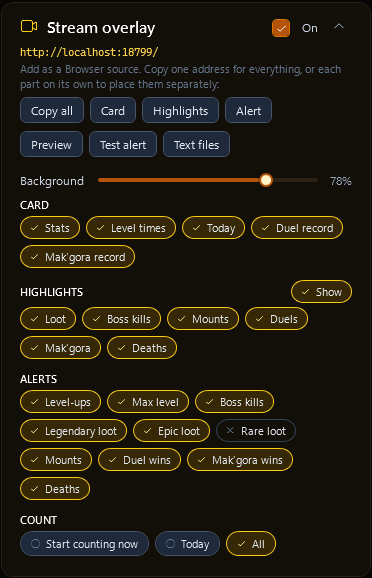
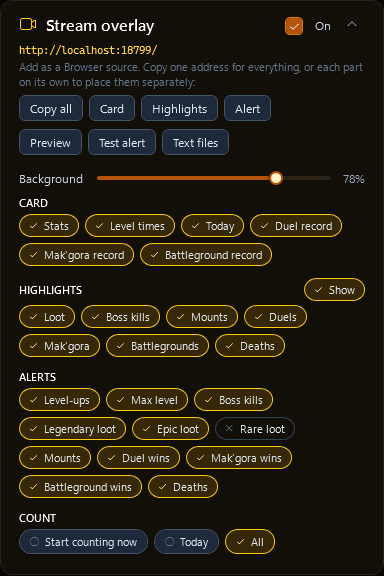
docs: fresh readme pictures and the 0.22.0 features
New pictures of the character list (sorting, role icons, ruleset chips),
the Items page, the In game page with guild/group announcements, the
stream panel and overlay (battleground record, wins and losses). The
text covers announcements, battlegrounds, sorting, the logo as the post
sender, and asks for testers. Version 0.22.0.

diff --git a/companion/WoWCharacterTracker/Models/TestCharacters.cs b/companion/WoWCharacterTracker/Models/TestCharacters.cs
@@ -15,13 +15,13 @@ static class TestCharacters
         long Ago(double hours) => now - (long)(hours * 3600);
 
         var zeb = new Snapshot($"{GuidPrefix}Zeb", "Zeb", "Stormreach", 40, "Warrior", "WARRIOR", "Night Elf", "NightElf", "male",
-            "", "", 38.4, 3 * 86400 + 5 * 3600, "Scarlet Monastery", "Mining 210, Blacksmithing 205", "Arms 21 / Fury 10 / Protection 0",
+            "Arms", "", 38.4, 3 * 86400 + 5 * 3600, "Scarlet Monastery", "Mining 210, Blacksmithing 205", "Arms 21 / Fury 10 / Protection 0",
             Ago(0.2), false, "Normal", 87_45_12, Guild: "Bloodhounds", Surname: "TESTCHAR", TalentPicks: "12282~3~3~1,16462~5~5~1,12292~1~1~1,12294~1~1~1,12320~5~5~2", Stats: "Strength~152,Agility~89,Stamina~141,Intellect~22,Spirit~48,Armor~2410,Attack Power~398,Crit~9.2%", Xp: 31200, XpMax: 90700, MaxLevel: 60, Region: "eu", ZoneType: "dungeon");
         var fagel = new Snapshot($"{GuidPrefix}Fagelmannen", "Fågelmannen", "Stormreach", 21, "Druid", "DRUID", "Tauren", "Tauren", "male",
-            "", "", 18.1, 19 * 3600 + 40 * 60, "The Barrens", "Herbalism 95, Alchemy 80", "Balance 0 / Feral Combat 12 / Restoration 0",
+            "Feral Combat", "", 18.1, 19 * 3600 + 40 * 60, "The Barrens", "Herbalism 95, Alchemy 80", "Balance 0 / Feral Combat 12 / Restoration 0",
             Ago(5), false, "Normal", 4_12_80, Guild: "Bloodhounds", Surname: "TESTCHAR", Xp: 6100, XpMax: 25200, MaxLevel: 60, Region: "eu", ZoneType: "zone");
         var goggo = new Snapshot($"{GuidPrefix}Goggo", "Goggo", "Ashfall", 60, "Hunter", "HUNTER", "Dwarf", "Dwarf", "male",
-            "", "", 61.7, 9 * 86400 + 14 * 3600, "Blackrock Spire", "Leatherworking 300, Skinning 300", "Beast Mastery 31 / Marksmanship 20 / Survival 0",
+            "Beast Mastery", "", 61.7, 9 * 86400 + 14 * 3600, "Blackrock Spire", "Leatherworking 300, Skinning 300", "Beast Mastery 31 / Marksmanship 20 / Survival 0",
             Ago(26), true, "Hardcore", 512_30_10, Guild: "", Surname: "TESTCHAR", MaxLevel: 60, Region: "us", ZoneType: "dungeon");
 
         var events = new List<Entry>();

diff --git a/companion/WoWCharacterTracker/Services/HighlightText.cs b/companion/WoWCharacterTracker/Services/HighlightText.cs
@@ -14,7 +14,7 @@ static class HighlightText
         "loot" => ("Looted ", e.Item),
         "mount" => (e.Bought ? "Bought " : "Got ", e.Mount),
         "duel" when e.Lost => (e.Fled ? "Ran from a duel with " : "Lost a duel to ", e.Opponent),
-        "duel" => (e.Fled ? "Won a duel, fled by " : "Won a duel against ", e.Opponent),
+        "duel" => ("Won a duel against ", e.Opponent),
         "makgora" when e.Lost => ("Lost a Mak'gora to ", e.Opponent),
         "makgora" => ("Won a Mak'gora against ", e.Opponent),
         "bg" => (e.Lost ? "Lost " : "Won ", e.Instance.Length > 0 ? e.Instance : "a battleground"),

diff --git a/README.md b/README.md
@@ -4,14 +4,17 @@
 
 Made for WoW Forever (Classic+), and works for Retail too. An addon in the game plus a small Windows app.
 
-- **Tracks every character**: level, item level, gold, talents, professions, stats, gear, bags and bank, highlights, and how long every level took. On Forever it also estimates the played time left to max level.
+- **Tracks every character**: level, item level, gold, talents, professions, stats, gear, bags and bank, highlights, and how long every level took. Sort the list any way you like, filter by realm or ruleset. On Forever it also estimates the played time left to max level.
 - **Finds any item** across all your characters, with Wowhead tooltips in the game's colors.
 - **Discord posts (optional)**: add a webhook and your moments are posted the moment they happen. Level-ups with the level's time, end boss kills with the group, rare, epic and legendary loot, new mounts, hardcore deaths, duel and Mak'gora wins, and Mythic+ or PvP rating milestones, with an in-game screenshot if you like. You pick what gets posted. Character cards too.
-- **Stream overlay (optional)**: turn it on in its own panel and add it to OBS or Streamlabs: your character's stats next to its level times, duel and Mak'gora records, the highlights you pick, and big WoW-style alerts like **DING!**, **VICTORY!** and **EPIC LOOT!**. Each part can be placed on its own, and the background can be anything from see-through to solid. Text files for text sources too.
+- **Tells your guild or group (optional)**: a line in guild and/or party chat when you ding, kill an end boss, loot an epic (as a clickable link) and more. You pick what.
+- **Stream overlay (optional)**: turn it on in its own panel and add it to OBS or Streamlabs: your character's stats next to its level times, duel, Mak'gora and battleground records, the highlights you pick (wins and losses), and big WoW-style alerts like **DING!**, **VICTORY!** and **EPIC LOOT!**. Each part can be placed on its own, and the background can be anything from see-through to solid. Text files for text sources too.
 - **Looks the part**: a color theme per game (Midnight for Retail, Classic gold for Forever, and more to pick from), with smooth animations you can switch off.
 - **Stays out of the way**: waits in the tray, opens when WoW starts, updates itself, can ignore a game you don't play, and uninstalls everything it added if you want.
 
 Nothing leaves your PC unless you set it up: posts only go to your own Discord webhooks, and the overlay is a page only your PC can open. See [Privacy](#privacy).
+
+> **Still young, testers wanted.** It works day to day, but few people have run it so far, especially on Forever, which launches on November 4, 2026. If something looks off, or you have an idea, say so in [Discussions](https://github.com/JDybeck/wow-character-tracker/discussions) or [Issues](https://github.com/JDybeck/wow-character-tracker/issues).
 
 ![The app on the Forever tab, with a character's details open](docs/images/characters.png)
 
@@ -75,7 +78,7 @@ Above the columns:
 
 **Copy settings** puts the whole page on your clipboard as a short code (it starts with `WCT1:`) to share with friends, and **Paste settings** applies a code someone shared to the game tab you're on. Webhooks and folders are never part of it.
 
-Posts show the character's portrait as the sender picture, item and mount names link to Wowhead, and professions get an emoji.
+Posts are sent as Character Tracker, with its logo, so they're easy to spot; the character's own picture is in the post (the same one the app shows). Item and mount names link to Wowhead, and professions get an emoji.
 
 Each game has its own look, and under Settings you can pick a color theme per game: Midnight, Void arcane or Silvermoon for Retail, Classic gold, Forever wisp, Emerald Dream or Blackrock ember for Forever. Here's Forever in its four themes:
 
@@ -87,12 +90,16 @@ The **In game** page has what the addon does in game besides posting:
 
 - **Offer a reload on flight paths**: when you take a flight and your bags or gear changed since the last save, a small box in game offers a `/reload` (you keep flying), so the Items page gets up to date.
 - **Remind me in chat to /reload**: one line in chat when your bags or gear changed since the last save, after the bank, mailbox, a vendor or the auction house, when you leave a dungeon, and every 30 minutes.
+- **Tell your guild or group**: the addon writes one line in guild chat and/or party (or raid) chat, as you, when something happens: level-ups ("Ding! Level 23. 22 to 23 took 41m 12s."), max level, end boss kills, epic and legendary loot as a clickable item link, new mounts, duel, Mak'gora and battleground wins, rating steps (Retail) and hardcore deaths. Pick which. Messages wait until you're out of combat, and boss kills don't list the group. Off until you tick Guild chat or Party / raid chat.
+
+  <img src="docs/images/in-game.png" alt="The In game page: reload reminders and Tell your guild or group" width="640">
+
 - **Instant posting**: the corner the small data grid is flashed in (top left, top right, bottom left or bottom right), and whether its small label shows.
 - **Advanced combat logging**: turns on the game's own Advanced Combat Logging setting (more detail in the combat log file, for log tools), set by the addon at your next login or `/reload`. Unticking turns it off again.
 
 ### The app
 
-- **Characters**: every character you've logged in with the addon, with class, spec, level, item level, gold and when you last played. The bottom of the list shows the total gold and total played for the realm (Retail) or ruleset (Forever) you've filtered on. Hardcore characters are marked. Click one for its details, in three tabs:
+- **Characters**: every character you've logged in with the addon, with class, spec, a role icon (tank, healer, or melee, ranged or caster damage), level, item level, gold and when you last played. Click a column title to sort by it, again to flip it; race, played time and rating (Retail) sort from next to CHARACTER. The order is remembered per game. The bottom of the list shows the total gold and total played for the realm (Retail) or ruleset (Forever) you've filtered on. Hardcore characters are marked. Click one for its details, in three tabs:
   - **Overview**: guild, total played, gold, crests and your Mythic Keystone (Retail), professions, talents, stats (each with its icon), last zone (with an icon for what kind of place it is: dungeon, raid, battleground, city, town or the open world) and highlights. Boss kills say who was there, deaths what they cost. On Forever, talents are split into the class's three trees and every talent you picked is shown with its icon and rank. On Retail, **Open in Wowhead talent calculator** opens your build there. **Post talents to Discord** posts the build on its own: level, race and class, the points per tree, the talents picked and the Wowhead calculator link.
   - **Gear and bags**: what the character wears, laid out like the character window, then its bags and its bank (as of the last time you opened it), with icons, quality colors and Wowhead tooltips. Click an item to open it on Wowhead.
 
@@ -108,7 +115,7 @@ The **In game** page has what the addon does in game besides posting:
 
   <img src="docs/images/character-card.png" alt="A character card as posted to Discord" width="480">
 
-- **Filter**: chips above the list filter by realm on Retail and by ruleset (Hardcore, Self-found, Normal) on Forever.
+- **Filter**: chips at the top of the Characters and Items pages filter by realm on Retail and by ruleset (Hardcore, Self-found, Normal) on Forever. With lots of realms they wrap onto more lines.
 - **Discord**: add as many webhooks as you like. Click one to turn it on or off for the game tab you're on; posts go to every webhook that's on. The gear opens its options: which games it posts for, on Forever which rulesets (so a hardcore channel only gets hardcore characters), and which character tags (none picked means every character). Click the pencil to rename a webhook, like "#leveling / My Guild". Hover a webhook to see its masked link.
 
   <img src="docs/images/webhook-options.png" alt="Webhooks with their options: games and Forever rulesets" width="340">
@@ -134,7 +141,7 @@ The **In game** page has what the addon does in game besides posting:
 
 Optional, and off until you turn it on: show your character, your records, your highlights and your big moments on stream, in OBS or Streamlabs. Everything is in the **Stream overlay** panel, between Discord and the console (click its title to fold it away).
 
-<img src="docs/images/stream-panel.png" alt="The Stream overlay panel: the addresses, background, what the card shows, highlights, alerts and what it counts" width="372">
+<img src="docs/images/stream-panel.png" alt="The Stream overlay panel: the addresses, background, what the card shows, highlights, alerts and what it counts" width="384">
 
 1. Tick **On** in the Stream overlay panel.
 2. Click **Copy all** for one source with everything (the address is `http://localhost:8721/`), or copy **Card**, **Highlights** and **Alert** one by one to add them as separate sources and place each where you like. A part on its own fills its whole Browser source, so its box in OBS fits it snugly: resize the source to resize the part. Give the alert a roomy source: its glow fades out softly at the edges.
@@ -144,9 +151,9 @@ Optional, and off until you turn it on: show your character, your records, your 
 
 What it shows:
 
-- **The card**: who the character is right now. Its name, level, race, spec and class and zone on top, then its stats on the left (item level, played, gold, your Mythic Keystone on Retail, and your duel and Mak'gora records) and its leveling on the right (how long the last level took, the levels before that, today's levels and their average). Without level times, like at max level, the stats get the card to themselves.
-- **Highlights**: what happened lately, as a short list. Pick which kinds count: loot, boss kills, mounts, duel wins, Mak'gora wins, deaths, and on Retail Mythic+ and PvP rating milestones.
-- **Alerts**: the big moments pop up in the middle for a few seconds, styled like the game, each in its own colors: **DING!** with the level and its time, **MAX LEVEL!** with light rays, **VICTORY!** for an end boss or a duel win, **LEGENDARY!**, **EPIC LOOT!** and **RARE LOOT!**, **NEW MOUNT!**, **MAK'GORA!** in blood red, a calm gray **R.I.P.** for a hardcore death, and on Retail **MILESTONE!** for rating steps. Pick which ones pop up under **Alerts** (rare loot is off by default, it happens a lot).
+- **The card**: who the character is right now. Its name, level, race, spec and class and zone on top, then its stats on the left (item level, played, gold, your Mythic Keystone and ratings on Retail, and your duel, Mak'gora and battleground records) and its leveling on the right (how long the last level took, the levels before that, today's levels and their average). Without level times, like at max level, the stats get the card to themselves.
+- **Highlights**: what happened lately, as a short list. Pick which kinds count: loot, boss kills, mounts, duels, Mak'gora, battlegrounds (wins and losses), deaths, and on Retail Mythic+ and PvP rating milestones.
+- **Alerts**: the big moments pop up in the middle for a few seconds, styled like the game, each in its own colors: **DING!** with the level and its time, **MAX LEVEL!** with light rays, **VICTORY!** for an end boss, a duel or a battleground win, **LEGENDARY!**, **EPIC LOOT!** and **RARE LOOT!**, **NEW MOUNT!**, **MAK'GORA!** in blood red, a calm gray **R.I.P.** for a hardcore death, and on Retail **MILESTONE!** for rating steps. Pick which ones pop up under **Alerts** (rare loot is off by default, it happens a lot).
 
 <img src="docs/images/stream-alerts.png" alt="Alerts: MAX LEVEL!, EPIC LOOT!, MAK'GORA! and R.I.P." width="640">
 
@@ -156,7 +163,7 @@ In the panel you can also set the **Background** (from see-through, just the tex
 
 Add these to an address to change it: `?scale=1.5` bigger (or `0.8` smaller), `?side=right` the boxes on the right. Combine them with `&`, like `http://localhost:8721/?only=card&scale=1.3`. (`?only=ding` from older versions still works for the alert.)
 
-**Text files** opens a folder with the same info, one value per file, for OBS **Text** sources (tick **Read from file**): `character.txt`, `character_line.txt` (Ronnie Raket, level 22 Paladin), `level.txt`, `last_level.txt` (21 to 22 took 23m 11s), `levels.txt`, `today.txt`, `highlights.txt`, `duels.txt` and `makgora.txt` (like 12 won, 3 lost), `zone.txt`, `played.txt` and `item_level.txt`.
+**Text files** opens a folder with the same info, one value per file, for OBS **Text** sources (tick **Read from file**): `character.txt`, `character_line.txt` (Ronnie Raket, level 22 Paladin), `level.txt`, `last_level.txt` (21 to 22 took 23m 11s), `levels.txt`, `today.txt`, `highlights.txt`, `duels.txt`, `makgora.txt` and `battlegrounds.txt` (like 12 won, 3 lost), `zone.txt`, `played.txt` and `item_level.txt`.
 
 Only your own PC can open the page. Test characters never show up on it.
 ### Making a Discord webhook
@@ -167,7 +174,7 @@ In Discord, hover the channel and click the gear (Edit Channel):
 
 <img src="docs/images/discord-edit-channel.png" alt="The gear next to a Discord channel opens Edit Channel" width="268">
 
-Then Integrations, Create Webhook (or Webhooks, New Webhook), and Copy Webhook URL. Paste it in the app with **Add** under Discord. You need the Manage Webhooks permission on the server. Posts use the webhook's name and the character's portrait as the sender.
+Then Integrations, Create Webhook (or Webhooks, New Webhook), and Copy Webhook URL. Paste it in the app with **Add** under Discord. You need the Manage Webhooks permission on the server. Posts show up as Character Tracker with its logo.
 
 <img src="docs/images/discord-integrations.png" alt="Integrations in a channel's settings, with Create Webhook" width="560">
 
@@ -190,7 +197,7 @@ WoW addons can't make network calls and only save their data on `/reload` or log
 
 <sub>The grid enlarged 3x. The top row and left column alternate black and white so the app can measure the cell size, even if the picture is scaled.</sub>
 
-Every event goes out this way (so the level history and highlights stay current), except loot that won't be posted, which waits for your next `/reload` or logout to keep the corner flicker down. There's also one check-in about 15 seconds after you log in, so your character's row in the app updates right away. In-game screenshots are only taken for events that get posted. Nothing is posted twice.
+Every event goes out this way, posted or not, so the level history and highlights stay current while you play. There's also one check-in about 15 seconds after you log in, so your character's row in the app updates right away. In-game screenshots are only taken for events that get posted. Nothing is posted twice.
 
 Level times: the addon stores your total played at the start of each level, and a finished level's time is the difference. It times the level right at the ding from the played time it already knows (the played time at your last logout, plus the time since you logged in), so it doesn't wait on the game. `RequestTimePlayed()` answers then make the next level's start exact. Level 1 to 2 always counts from 0. If the addon came in mid-level, that level is still logged, with its time shown as "?".
 
@@ -210,9 +217,10 @@ Not built yet, roughly in order:
 
 - Talents: Forever shows points in its three trees plus each pick. Retail shows points in the class, spec and hero trees.
 - Professions and end bosses are matched by English name, so a non-English client won't show them.
+- Battlegrounds count when the game says who won (arenas and draws don't). Results are tracked and shown, not posted to Discord.
 - Bags and gear reach the app on `/reload` or logout (they're too much for the live channel). The bank only updates when you open it in game.
 - Rating milestones start counting from the first time the addon sees your rating, so ratings you already had aren't posted.
-- Retail portraits are the character's own render, found through Raider.IO (after the next login with the updated addon). Forever characters show their own portrait in the app: the addon puts it next to the data grid in the check-in shot after you log in, and the app cuts it out. Talent posts and text character cards upload it with the message as their picture. The sender picture has to be a web address, so it stays the race portrait from Wowhead's icon CDN (or the class icon), and so do automatic posts like level-ups.
+- Retail portraits are the character's own render, found through Raider.IO (after the next login with the updated addon). Forever characters show their own portrait in the app: the addon puts it next to the data grid in the check-in shot after you log in, and the app cuts it out. Posts upload it with the message as their picture (unless you picked Standard for that character). One rule picks the picture everywhere: the app, posts and character cards.
 - Screenshots go out at full size first (boosted servers allow bigger uploads). If Discord says one is too big, a smaller JPEG copy is sent instead, and only if that's still too big does the post go out without it.
 - On the first run, events already saved are marked as posted so the channel isn't flooded. Start the app with `--backfill` to post them instead.
 - Settings and webhooks are saved in `%LOCALAPPDATA%\WoWCharacterTracker\config.json` and survive updates.

diff --git a/CHANGELOG.md b/CHANGELOG.md
@@ -2,7 +2,7 @@
 
 The app shows the notes for a new version when it finds an update. Each release takes its notes from its section here.
 
-## v0.21.2
+## v0.22.0
 
 - **Stream card and highlights no longer cut off**: as a single source (`?only=card`, `?only=highlights`) the part is scaled up to fill the source, but the page only kept its unscaled height, so everything below the first lines was cut away in OBS and Streamlabs. Now the whole part shows.
 - **Fast with lots of characters**: with 60+ characters the app froze for 10 seconds or more at startup and again when opening Items. Now the Items list is only built when you open it and only draws what's on screen, a character's gear, bags and icons load when you open that character, and Wowhead lookups run in the background. Startup went from about 30 seconds of work to 2 on 64 Retail characters.
